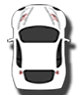
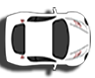
changed barrel image to other car image, updated base line view

diff --git a/cargame/Scripts/game.js b/cargame/Scripts/game.js
@@ -6,11 +6,11 @@ var car;
 var coin;
 var road;
 
-//barrier array
-var barrier = [];
+//redcar array
+var redcar = [];
 
 //Game constants
-var BARRIER_NUM = 3;
+var REDCAR_NUM = 3;
 
 function preload() {
     queue = new createjs.LoadQueue();
@@ -19,8 +19,8 @@ function preload() {
     queue.loadManifest([
         { id: "car", src: "assets/images/car.png" },
         { id: "coin", src: "assets/images/coin.png" },
-        { id: "barrier", src: "assets/images/road-barrier.png" },
-        { id: "road", src: "assets/images/road.jpg" },
+        { id: "redcar", src: "assets/images/red_car.png" },
+        { id: "road", src: "assets/images/road2.jpg" },
         { id: "yay", src: "assets/sounds/yay.ogg" }
     ]);
 }
@@ -38,8 +38,8 @@ function raceloop(event) {
     coin.update();
     car.update();
 
-    for (var count = 0; count < BARRIER_NUM; count++) {
-        barrier[count].update();
+    for (var count = 0; count < REDCAR_NUM; count++) {
+        redcar[count].update();
     }
     stage.update();
 }
@@ -52,12 +52,15 @@ var Car = (function () {
         this.height = this.Image.getBounds().height;
         this.Image.regX = this.width * 0.5;
         this.Image.regY = this.width * 0.5;
-        this.Image.y = 430;
+        this.Image.x = 65;
+        this.Image.y = 302;
 
         stage.addChild(this.Image);
     }
     Car.prototype.update = function () {
-        this.Image.x = stage.mouseX;
+        if (stage.mouseY >= 70 && stage.mouseY <= 550) {
+            this.Image.y = stage.mouseY;
+        }
     };
     return Car;
 })();
@@ -68,7 +71,7 @@ var Coin = (function () {
         this.Image = new createjs.Bitmap(queue.getResult("coin"));
         this.width = this.Image.getBounds().width;
         this.height = this.Image.getBounds().height;
-        this.Image.regX = this.width * 0.5;
+        this.Image.regX = this.height * 0.5;
         this.Image.regY = this.width * 0.5;
         this.dy = 5;
 
@@ -76,46 +79,45 @@ var Coin = (function () {
         this.reset();
     }
     Coin.prototype.reset = function () {
-        this.Image.y = -this.height;
-        this.Image.x = Math.floor(Math.random() * stage.canvas.width);
+        this.Image.x = 805;
+        this.Image.y = Math.floor(Math.random() * stage.canvas.height);
     };
 
     Coin.prototype.update = function () {
-        this.Image.y += this.dy;
-        if (this.Image.y >= (this.height + stage.canvas.height)) {
+        this.Image.x -= this.dy;
+        if (this.Image.x <= (-stage.canvas.width)) {
             this.reset();
         }
     };
     return Coin;
 })();
 
-//Barriers class
-var Barrier = (function () {
-    function Barrier() {
-        this.Image = new createjs.Bitmap(queue.getResult("barrier"));
+//red car class
+var RedCar = (function () {
+    function RedCar() {
+        this.Image = new createjs.Bitmap(queue.getResult("redcar"));
         this.width = this.Image.getBounds().width;
         this.height = this.Image.getBounds().height;
-        this.Image.regX = this.width * 0.5;
+        this.Image.regX = this.height * 0.5;
         this.Image.regY = this.width * 0.5;
+        this.dx = 10;
 
         stage.addChild(this.Image);
         this.reset();
     }
-    Barrier.prototype.reset = function () {
-        this.Image.y = -this.height;
-        this.Image.x = Math.floor(Math.random() * stage.canvas.width);
-        this.dy = Math.floor(Math.random() * 5 + 5);
-        this.dx = Math.floor(Math.random() * 4 - 2);
+    RedCar.prototype.reset = function () {
+        this.Image.x = 805 + Math.floor(Math.random() * 800);
+        this.Image.y = Math.floor(Math.random() * stage.canvas.height);
+        this.dx = Math.floor(Math.random() * 10 + 5);
     };
 
-    Barrier.prototype.update = function () {
-        this.Image.y += this.dy;
-        this.Image.x += this.dx;
-        if (this.Image.y >= (this.height + stage.canvas.height)) {
+    RedCar.prototype.update = function () {
+        this.Image.x -= this.dx;
+        if (this.Image.x <= (-stage.canvas.width)) {
             this.reset();
         }
     };
-    return Barrier;
+    return RedCar;
 })();
 
 //Road class
@@ -124,18 +126,18 @@ var Road = (function () {
         this.Image = new createjs.Bitmap(queue.getResult("road"));
         this.width = this.Image.getBounds().width;
         this.height = this.Image.getBounds().height;
-        this.dy = 5;
+        this.dx = 5;
 
         stage.addChild(this.Image);
         this.reset();
     }
     Road.prototype.reset = function () {
-        this.Image.y = -960;
+        this.Image.x = 0;
     };
 
     Road.prototype.update = function () {
-        this.Image.y += this.dy;
-        if (this.Image.y >= 0) {
+        this.Image.x -= this.dx;
+        if (this.Image.x <= -600) {
             this.reset();
         }
     };
@@ -147,8 +149,8 @@ function gameStart() {
     coin = new Coin();
     car = new Car();
 
-    for (var count = 0; count < BARRIER_NUM; count++) {
-        barrier[count] = new Barrier();
+    for (var count = 0; count < REDCAR_NUM; count++) {
+        redcar[count] = new RedCar();
     }
 }
 //# sourceMappingURL=game.js.map

diff --git a/cargame/Scripts/game.ts b/cargame/Scripts/game.ts
@@ -6,11 +6,11 @@ var car: Car;
 var coin: Coin;
 var road: Road;
 
-//barrier array
-var barrier = [];
+//redcar array
+var redcar = [];
 
 //Game constants
-var BARRIER_NUM: number = 3;
+var REDCAR_NUM: number = 3;
 
 function preload(): void {
     queue = new createjs.LoadQueue();
@@ -19,8 +19,8 @@ function preload(): void {
     queue.loadManifest([
         { id: "car", src: "assets/images/car.png" },
         { id: "coin", src: "assets/images/coin.png" },
-        { id: "barrier", src: "assets/images/road-barrier.png" },
-        { id: "road", src: "assets/images/road.jpg" },
+        { id: "redcar", src: "assets/images/red_car.png" },
+        { id: "road", src: "assets/images/road2.jpg" },
         { id: "yay", src: "assets/sounds/yay.ogg" }
     ]);
 }
@@ -38,8 +38,8 @@ function raceloop(event): void {
     coin.update();
     car.update();
 
-    for (var count = 0; count < BARRIER_NUM; count++) {
-        barrier[count].update();
+    for (var count = 0; count < REDCAR_NUM; count++) {
+        redcar[count].update();
     }
     stage.update();
 }
@@ -55,14 +55,19 @@ class Car {
         this.height = this.Image.getBounds().height;
         this.Image.regX = this.width * 0.5;
         this.Image.regY = this.width * 0.5;
-        this.Image.y = 430;
-       
+        this.Image.x = 65;
+        this.Image.y = 302;
 
         stage.addChild(this.Image);
     }
 
     update() {
-        this.Image.x = stage.mouseX;
+        if (stage.mouseY >= 70 && stage.mouseY <= 550) {
+            this.Image.y = stage.mouseY;
+        }
+        
+            
+        
     }
 } //EO car class
 
@@ -76,7 +81,7 @@ class Coin {
         this.Image = new createjs.Bitmap(queue.getResult("coin"));
         this.width = this.Image.getBounds().width;
         this.height = this.Image.getBounds().height;
-        this.Image.regX = this.width * 0.5;
+        this.Image.regX = this.height * 0.5;
         this.Image.regY = this.width * 0.5;
         this.dy = 5;
 
@@ -85,75 +90,75 @@ class Coin {
     }
 
     reset() { 
-        this.Image.y = -this.height;
-        this.Image.x = Math.floor(Math.random() * stage.canvas.width);
+        this.Image.x = 805;
+        this.Image.y = Math.floor(Math.random() * stage.canvas.height);
     }
 
     update() {
-        this.Image.y += this.dy;
-        if (this.Image.y >= (this.height + stage.canvas.height)) {
+        this.Image.x -= this.dy;
+        if (this.Image.x <= (-stage.canvas.width)) {
             this.reset();
         }
     }
 } //EO coin class
 
-//Barriers class
-class Barrier {
+//red car class
+class RedCar {
     Image: createjs.Bitmap;
     width: number;
     height: number;
     dy: number;
     dx: number;
     constructor() {
-        this.Image = new createjs.Bitmap(queue.getResult("barrier"));
+        this.Image = new createjs.Bitmap(queue.getResult("redcar"));
         this.width = this.Image.getBounds().width;
         this.height = this.Image.getBounds().height;
-        this.Image.regX = this.width * 0.5;
+        this.Image.regX = this.height * 0.5;
         this.Image.regY = this.width * 0.5;
+        this.dx = 10;
 
         stage.addChild(this.Image);
         this.reset();
     }
 
     reset() {
-        this.Image.y = -this.height;
-        this.Image.x = Math.floor(Math.random() * stage.canvas.width);
-        this.dy = Math.floor(Math.random() * 5 + 5);
-        this.dx = Math.floor(Math.random() * 4 - 2);
+        this.Image.x = 805 + Math.floor(Math.random()*800);
+        this.Image.y = Math.floor(Math.random() * stage.canvas.height);
+        this.dx = Math.floor(Math.random() * 10 + 5);
+        
     }
 
     update() {
-        this.Image.y += this.dy;
-        this.Image.x += this.dx;
-        if (this.Image.y >= (this.height + stage.canvas.height)) {
+        this.Image.x -= this.dx;
+        if (this.Image.x <= (-stage.canvas.width)) {
             this.reset();
         }
     }
-} //EO barrier class
+} //EO red car class
 
 //Road class
 class Road {
     Image: createjs.Bitmap;
     width: number;
     height: number;
-    dy: number;
+    dx: number;
     constructor() {
         this.Image = new createjs.Bitmap(queue.getResult("road"));
         this.width = this.Image.getBounds().width;
         this.height = this.Image.getBounds().height;
-        this.dy = 5;
+        this.dx = 5;
 
         stage.addChild(this.Image);
         this.reset();
     }
 
     reset() {
-        this.Image.y = -960;
+        this.Image.x = 0;
     }
 
     update() {
-        this.Image.y += this.dy;
-        if (this.Image.y >= 0) {
+        this.Image.x -= this.dx;
+        if (this.Image.x <= -600) {
             this.reset();
         }
     }
@@ -165,7 +170,7 @@ function gameStart(): void {
     coin = new Coin();
     car = new Car();
 
-    for (var count = 0; count < BARRIER_NUM; count++) {
-        barrier[count] = new Barrier();
+    for (var count = 0; count < REDCAR_NUM; count++) {
+        redcar[count] = new RedCar();
     }
 }

diff --git a/cargame/index.html b/cargame/index.html
@@ -9,7 +9,7 @@
 
 </head>
 <body onload="preload()">
-    <canvas id="canvas" width="320" height="480" style="border: solid;"></canvas>
+    <canvas id="canvas" width="800" height="600" style="border: solid;"></canvas>
 
     <!-- JavaScript Section -->
     <script src="Scripts/lib/jquery-2.1.1.min.js"></script>
